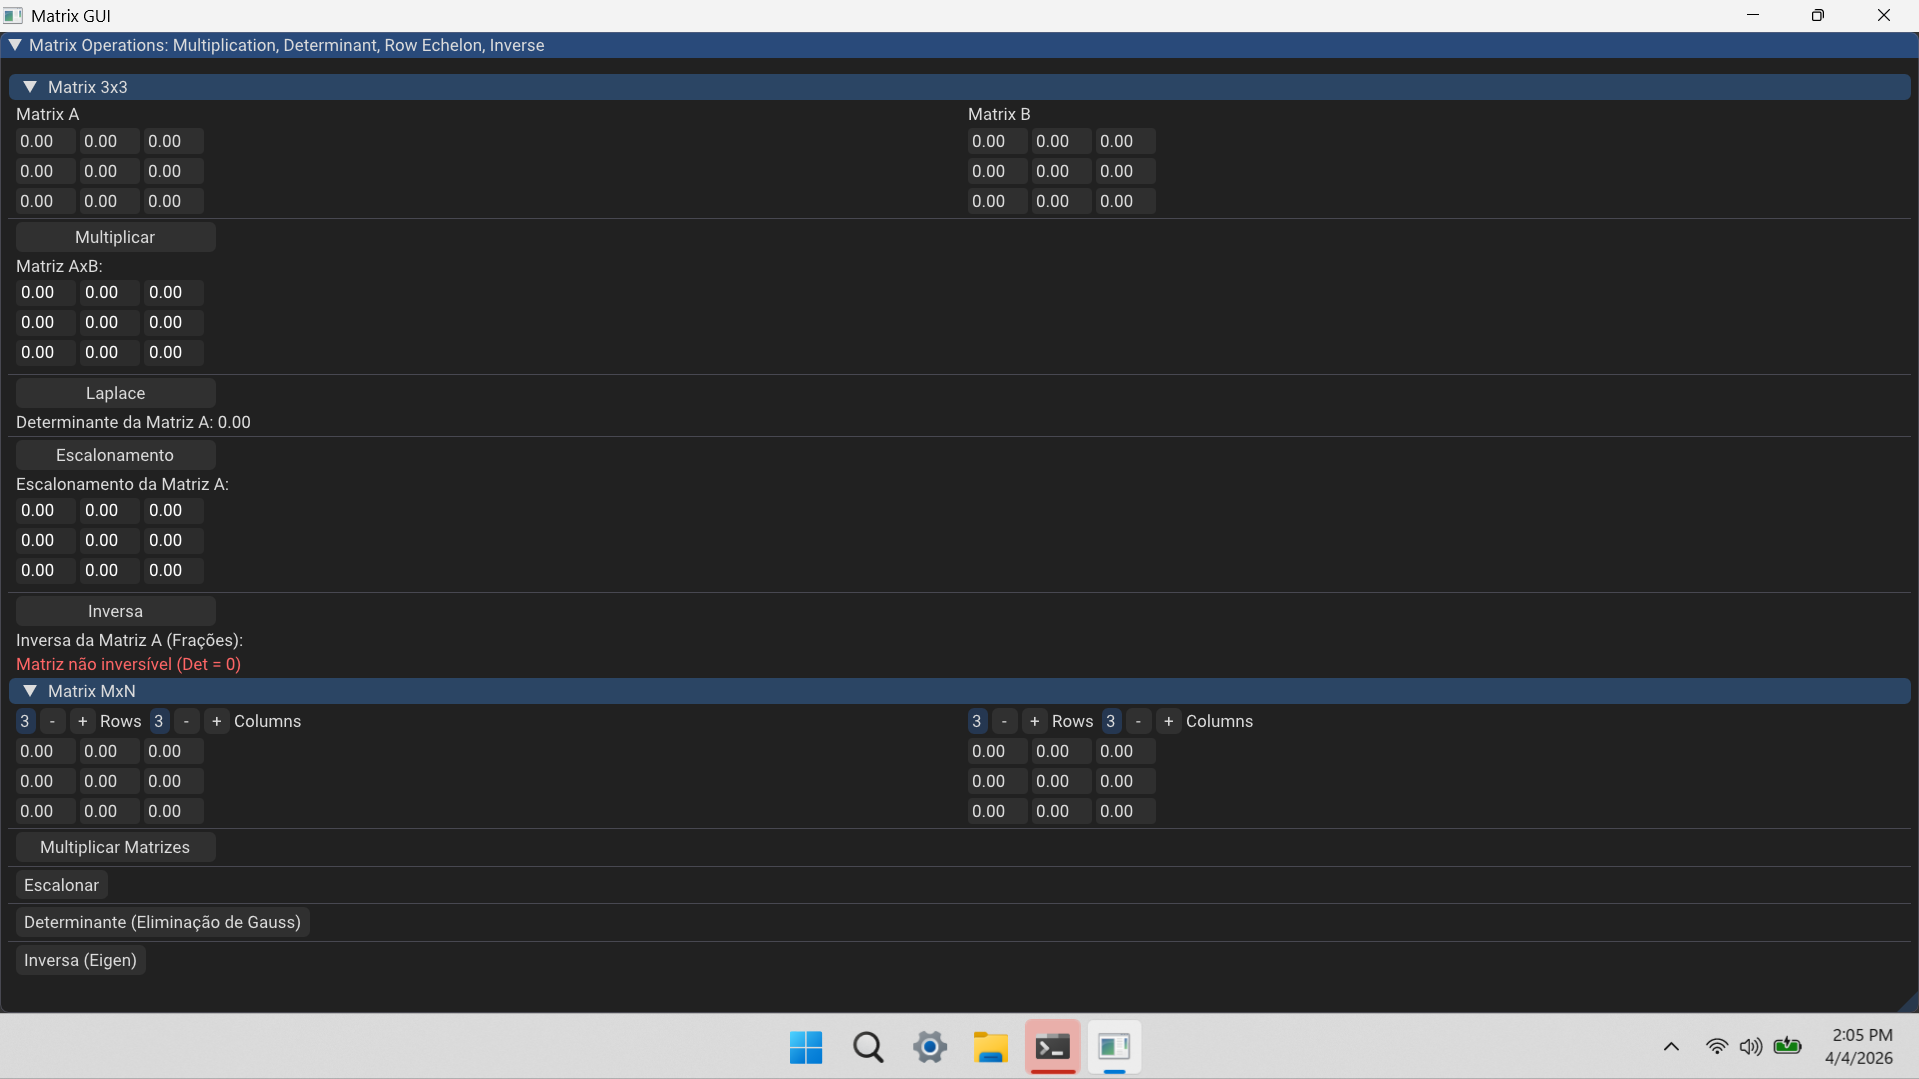
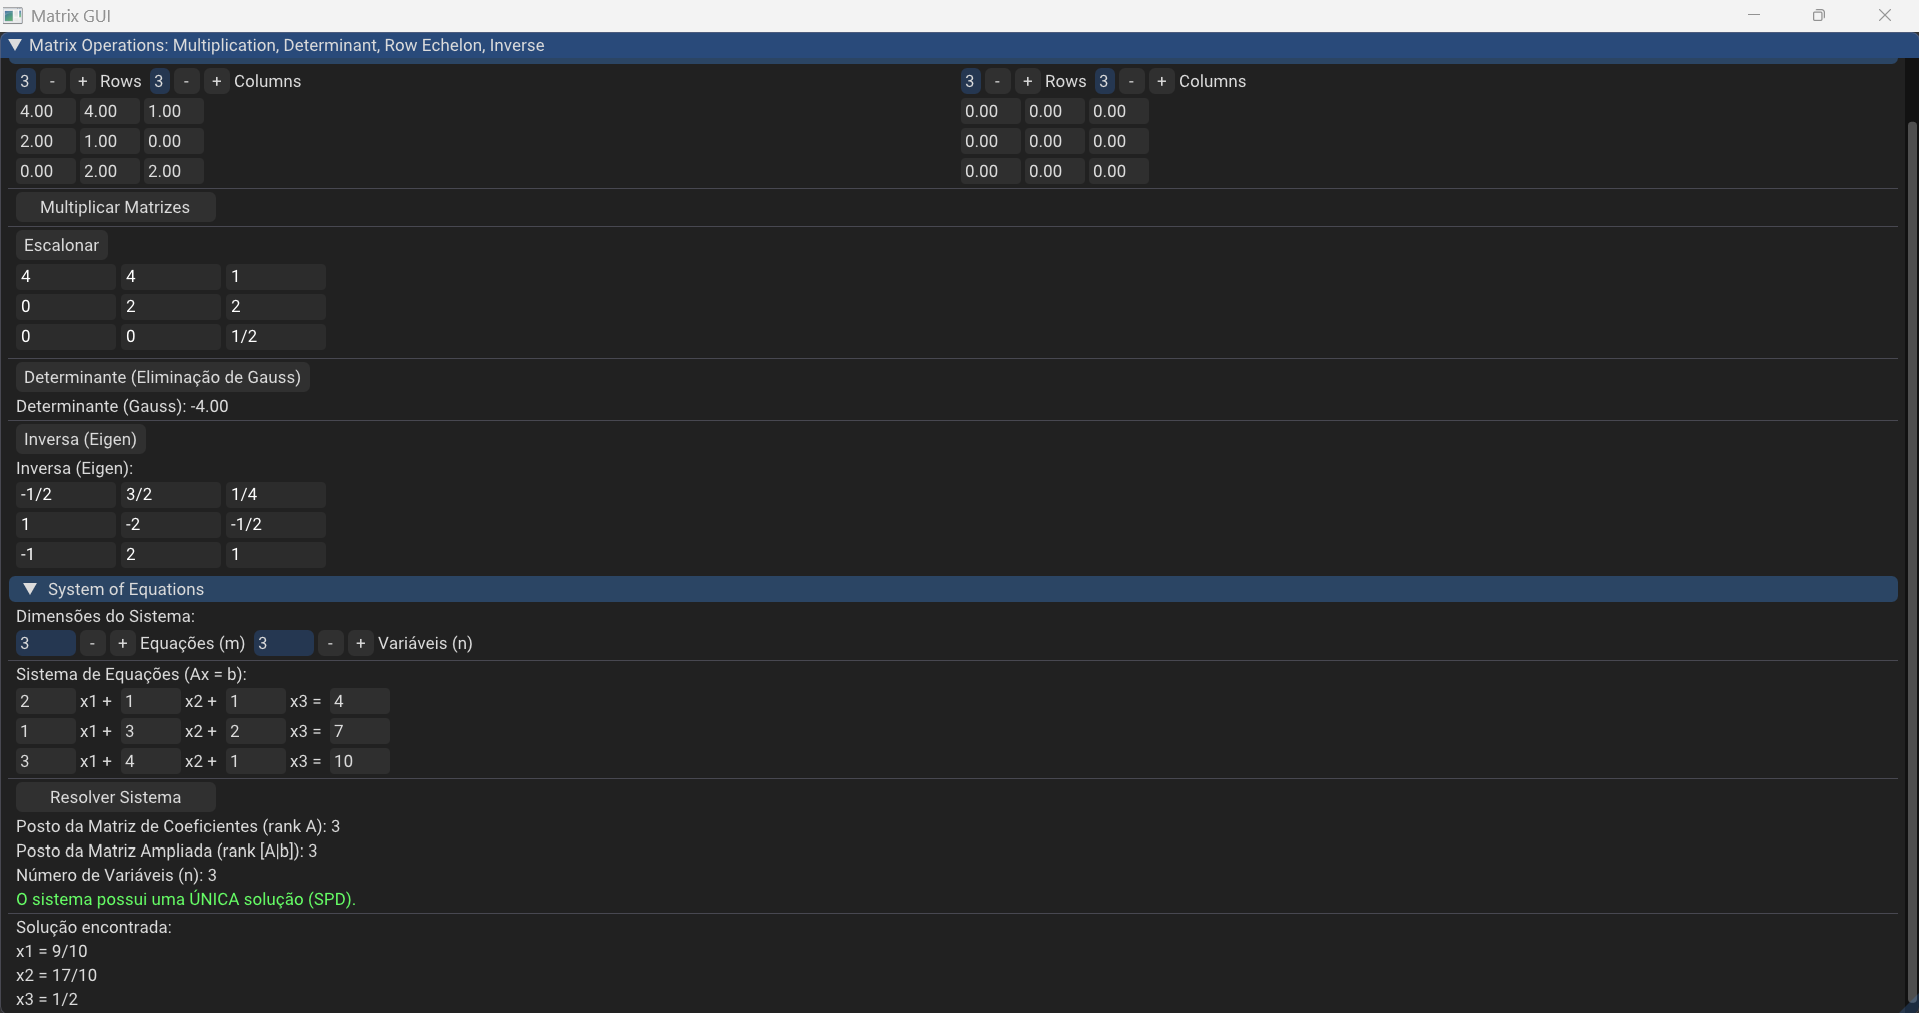
new release

Changed region(s): [[0.0, 0.0, 1.0, 1.0], [0.1537, 0.7345, 0.1845, 0.7651]]

diff --git a/WalnutApp/src/WalnutApp.cpp b/WalnutApp/src/WalnutApp.cpp
@@ -407,7 +407,10 @@ public:
 					ImGui::Separator();
 					ImGui::Text("Solução encontrada:");
 					for (int i = 0; i < vecX.size(); i++) {
-						ImGui::Text("x%d = %.2f", i + 1, vecX(i));
+						
+						std::string fractionStr = valueToFraction(vecX(i));
+
+						ImGui::Text("x%d = %s", i + 1, fractionStr.c_str());
 					}
 				}
 				else if (systemStatus == 2) {
@@ -416,7 +419,10 @@ public:
 					ImGui::Separator();
 					ImGui::Text("Uma solução possível:");
 					for (int i = 0; i < vecX.size(); i++) {
-						ImGui::Text("x%d = %.2f", i + 1, vecX(i));
+
+						std::string fractionStr = valueToFraction(vecX(i));
+
+						ImGui::Text("x%d = %s", i + 1, fractionStr.c_str());
 					}
 				}
 				else if (systemStatus == 3) {
